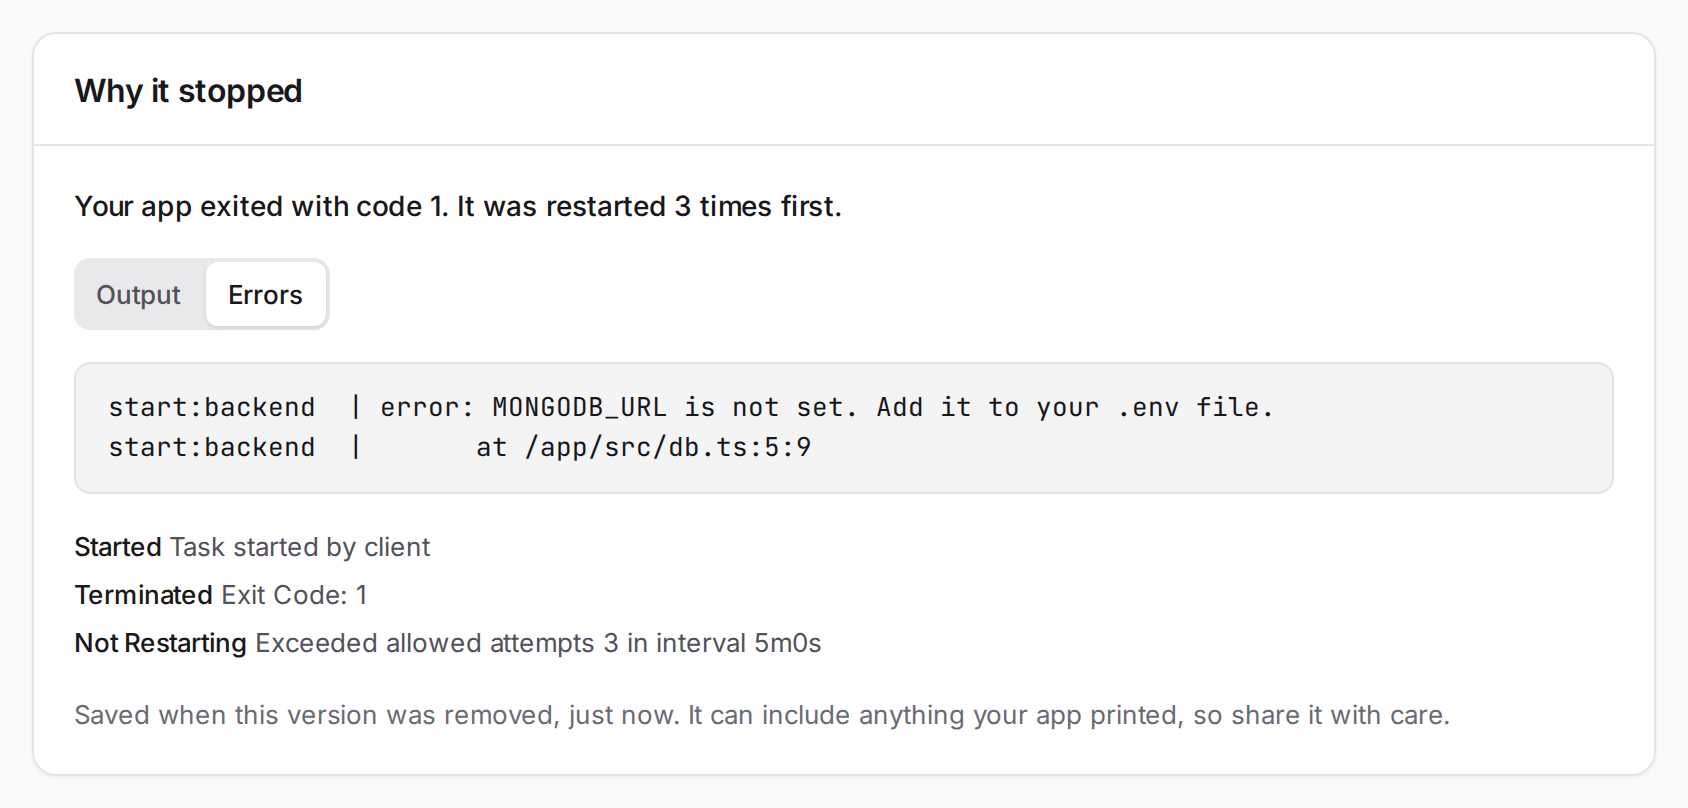
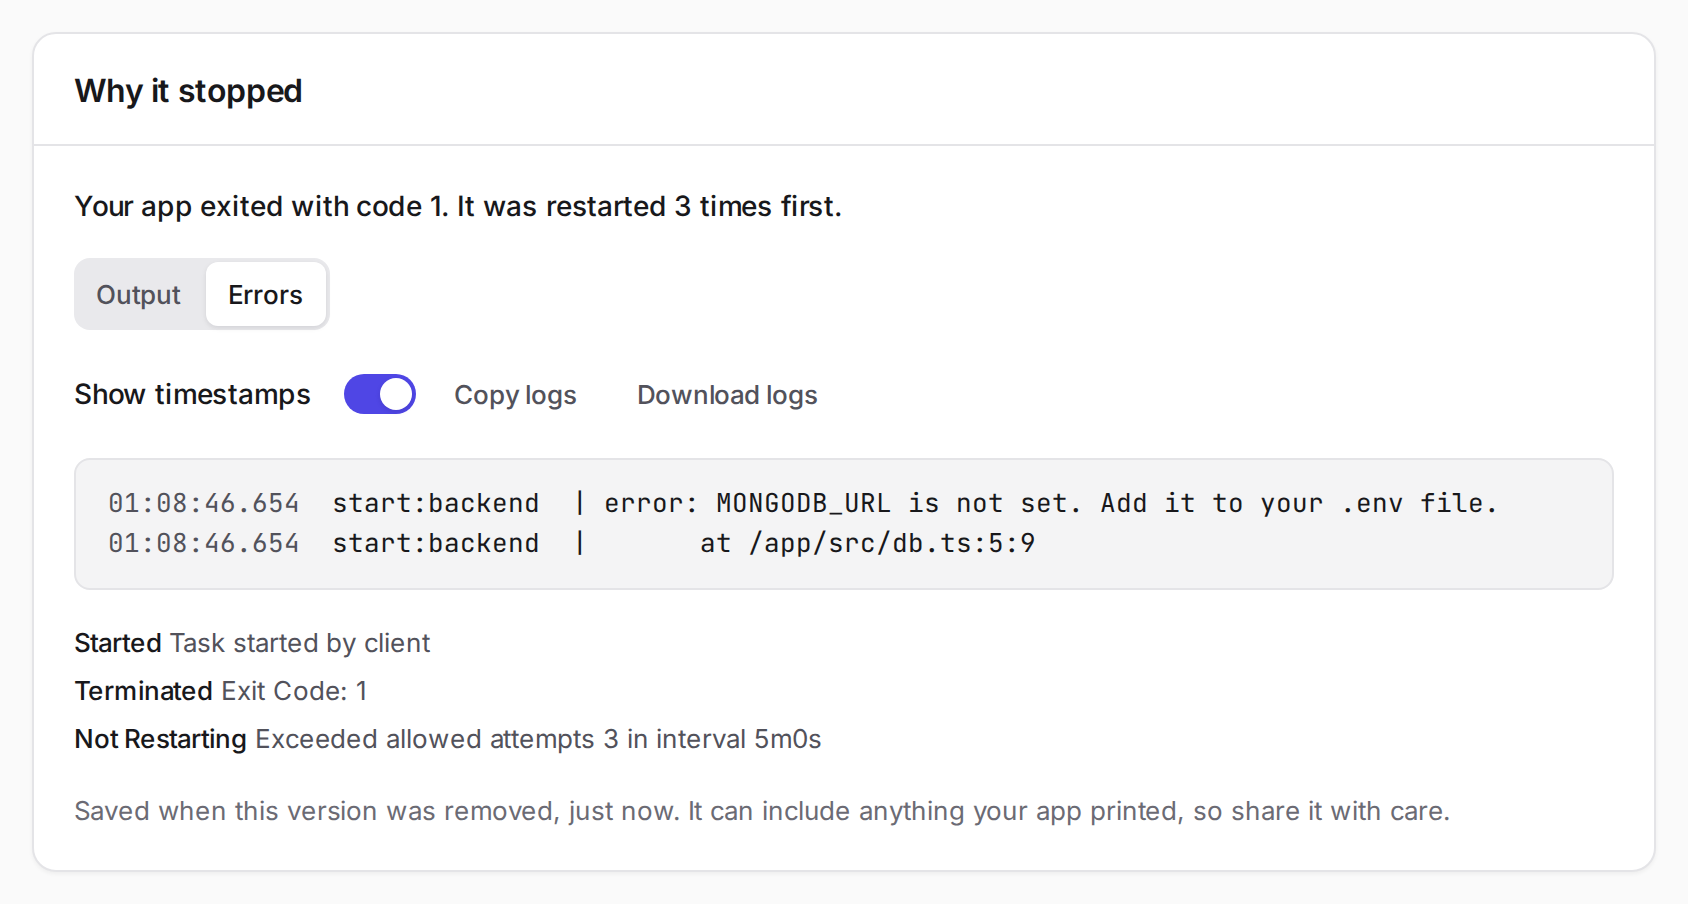
Retake the settings, logs, failure and deployment screenshots from the current portal
The build script field no longer shows a grey placeholder, and logs now
have timestamps and copy and download controls. Drop the Machines note,
which only staff see.

diff --git a/content/resources/deploying-apps.md b/content/resources/deploying-apps.md
@@ -135,7 +135,7 @@ Creating the app opens its **Settings** tab. Fill in the fields for your app.
 Click **Save settings**.
 
 <figure class="guide-step">
-  <img src="assets/deploying-apps/settings.png" alt="Settings form for sync-engine-reservations, with branch main, Bun selected, package directories set to a dot, an empty build script with a grey build placeholder, start script start, port 3000, and health check path /health">
+  <img src="assets/deploying-apps/settings.png" alt="Settings form for sync-engine-reservations, with branch main, Bun selected, package directories set to a dot, an empty build script with the hint Leave empty if your app has no build step, start script start, port 3000, and health check path /health">
   <figcaption>The reservations app's settings.</figcaption>
 </figure>
 
@@ -240,7 +240,7 @@ For later changes, push your code to GitHub, then choose the new commit on the *
 
 ## 6. Manage your app
 
-The **Overview** tab shows your app's health and the commit it's running. You can also deploy, stop, or restart it there. Under **Machines**, it shows how much memory your app can use; if the app goes over, the platform restarts it.
+The **Overview** tab shows your app's health and the commit it's running. You can also deploy, stop, or restart it there.
 
 <figure class="guide-step">
   <img src="assets/deploying-apps/overview.png" alt="Overview tab showing the app as Healthy, its current commit, Deploy latest and Deploy buttons, and Stop app and Restart app controls">
